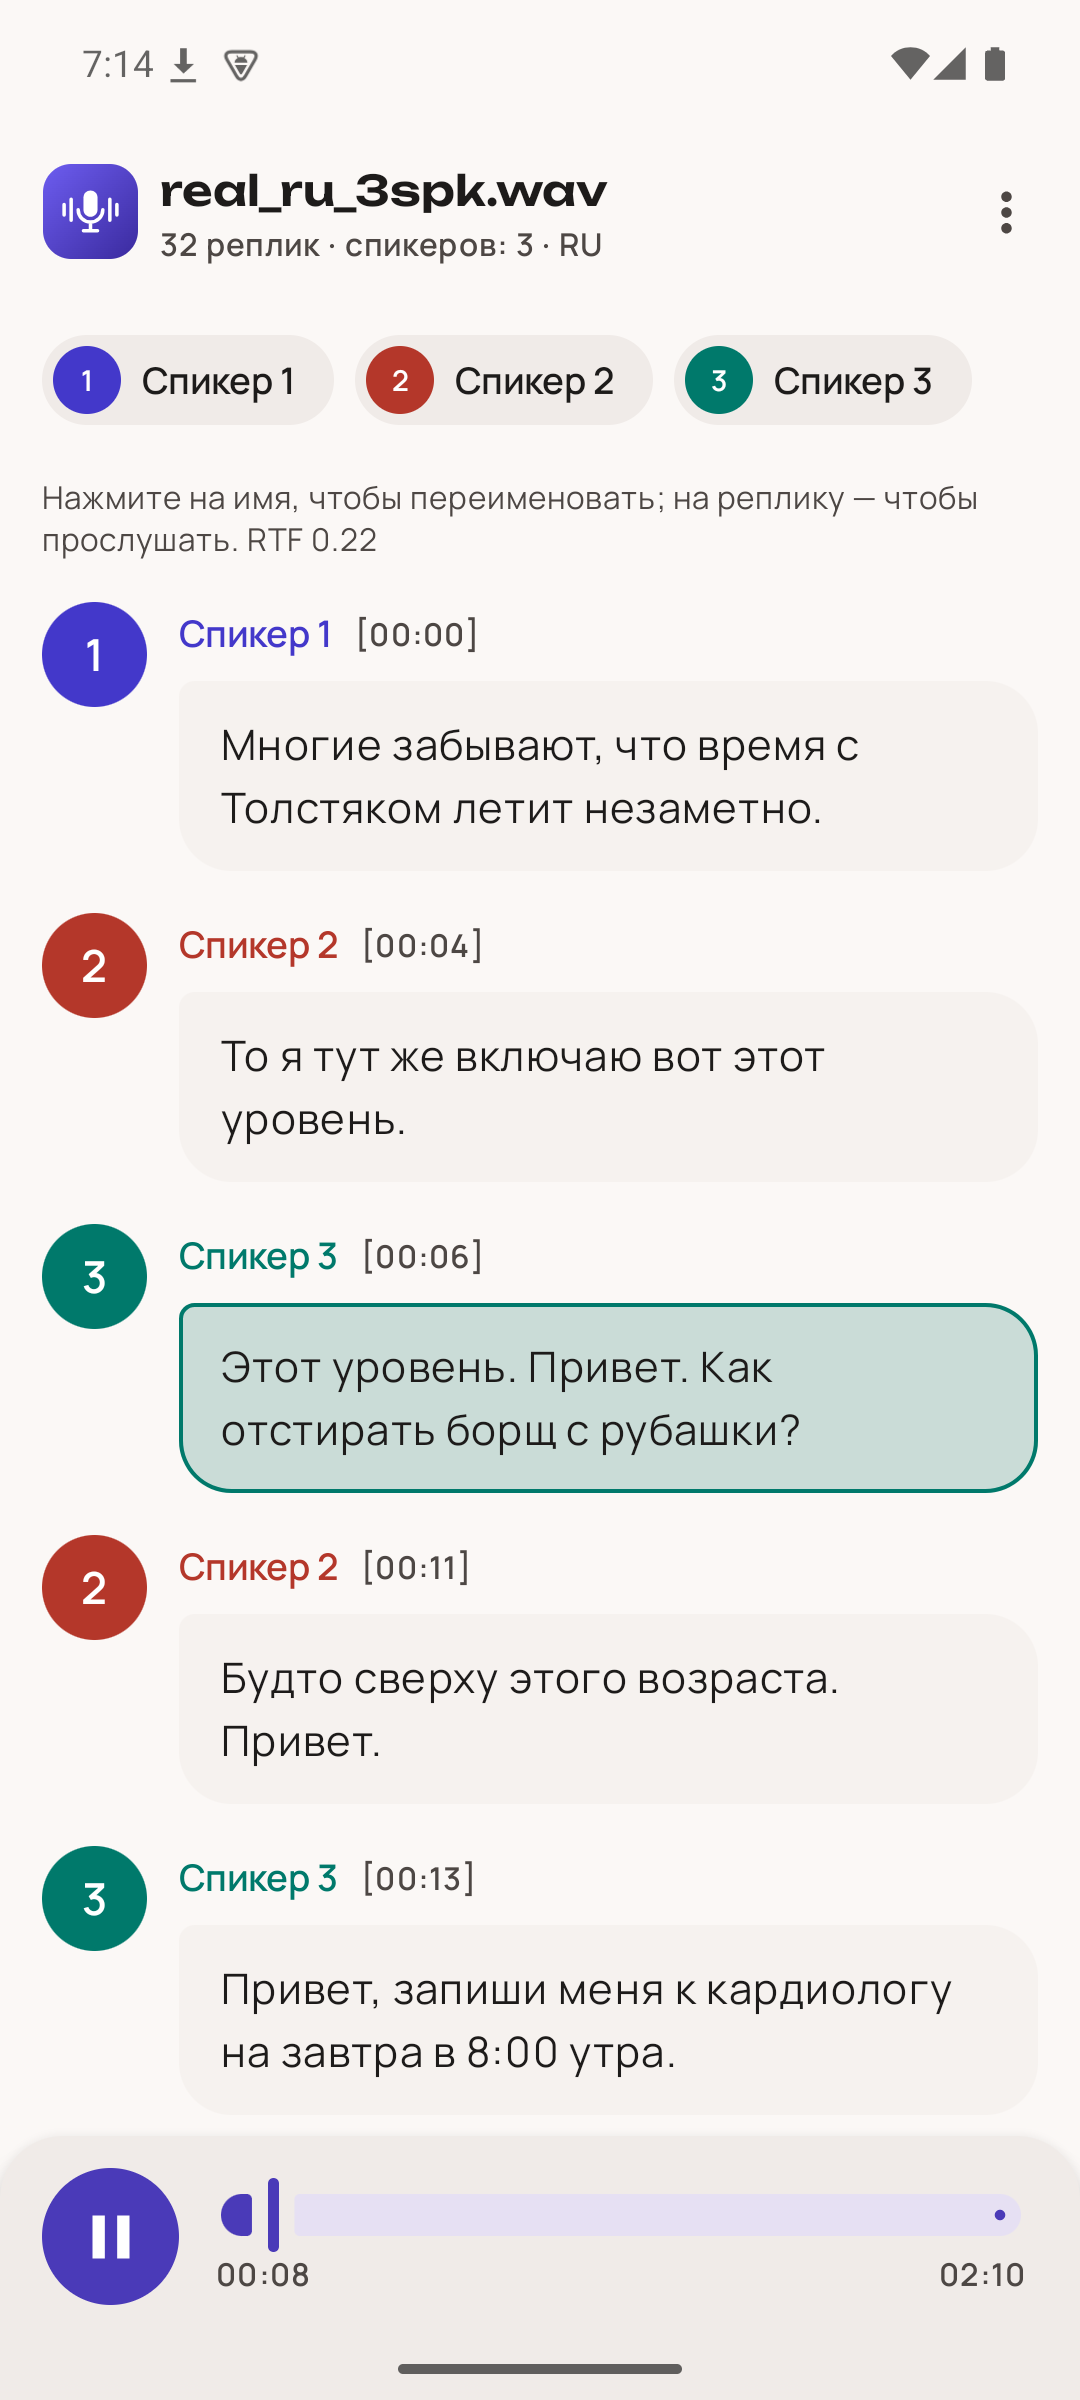
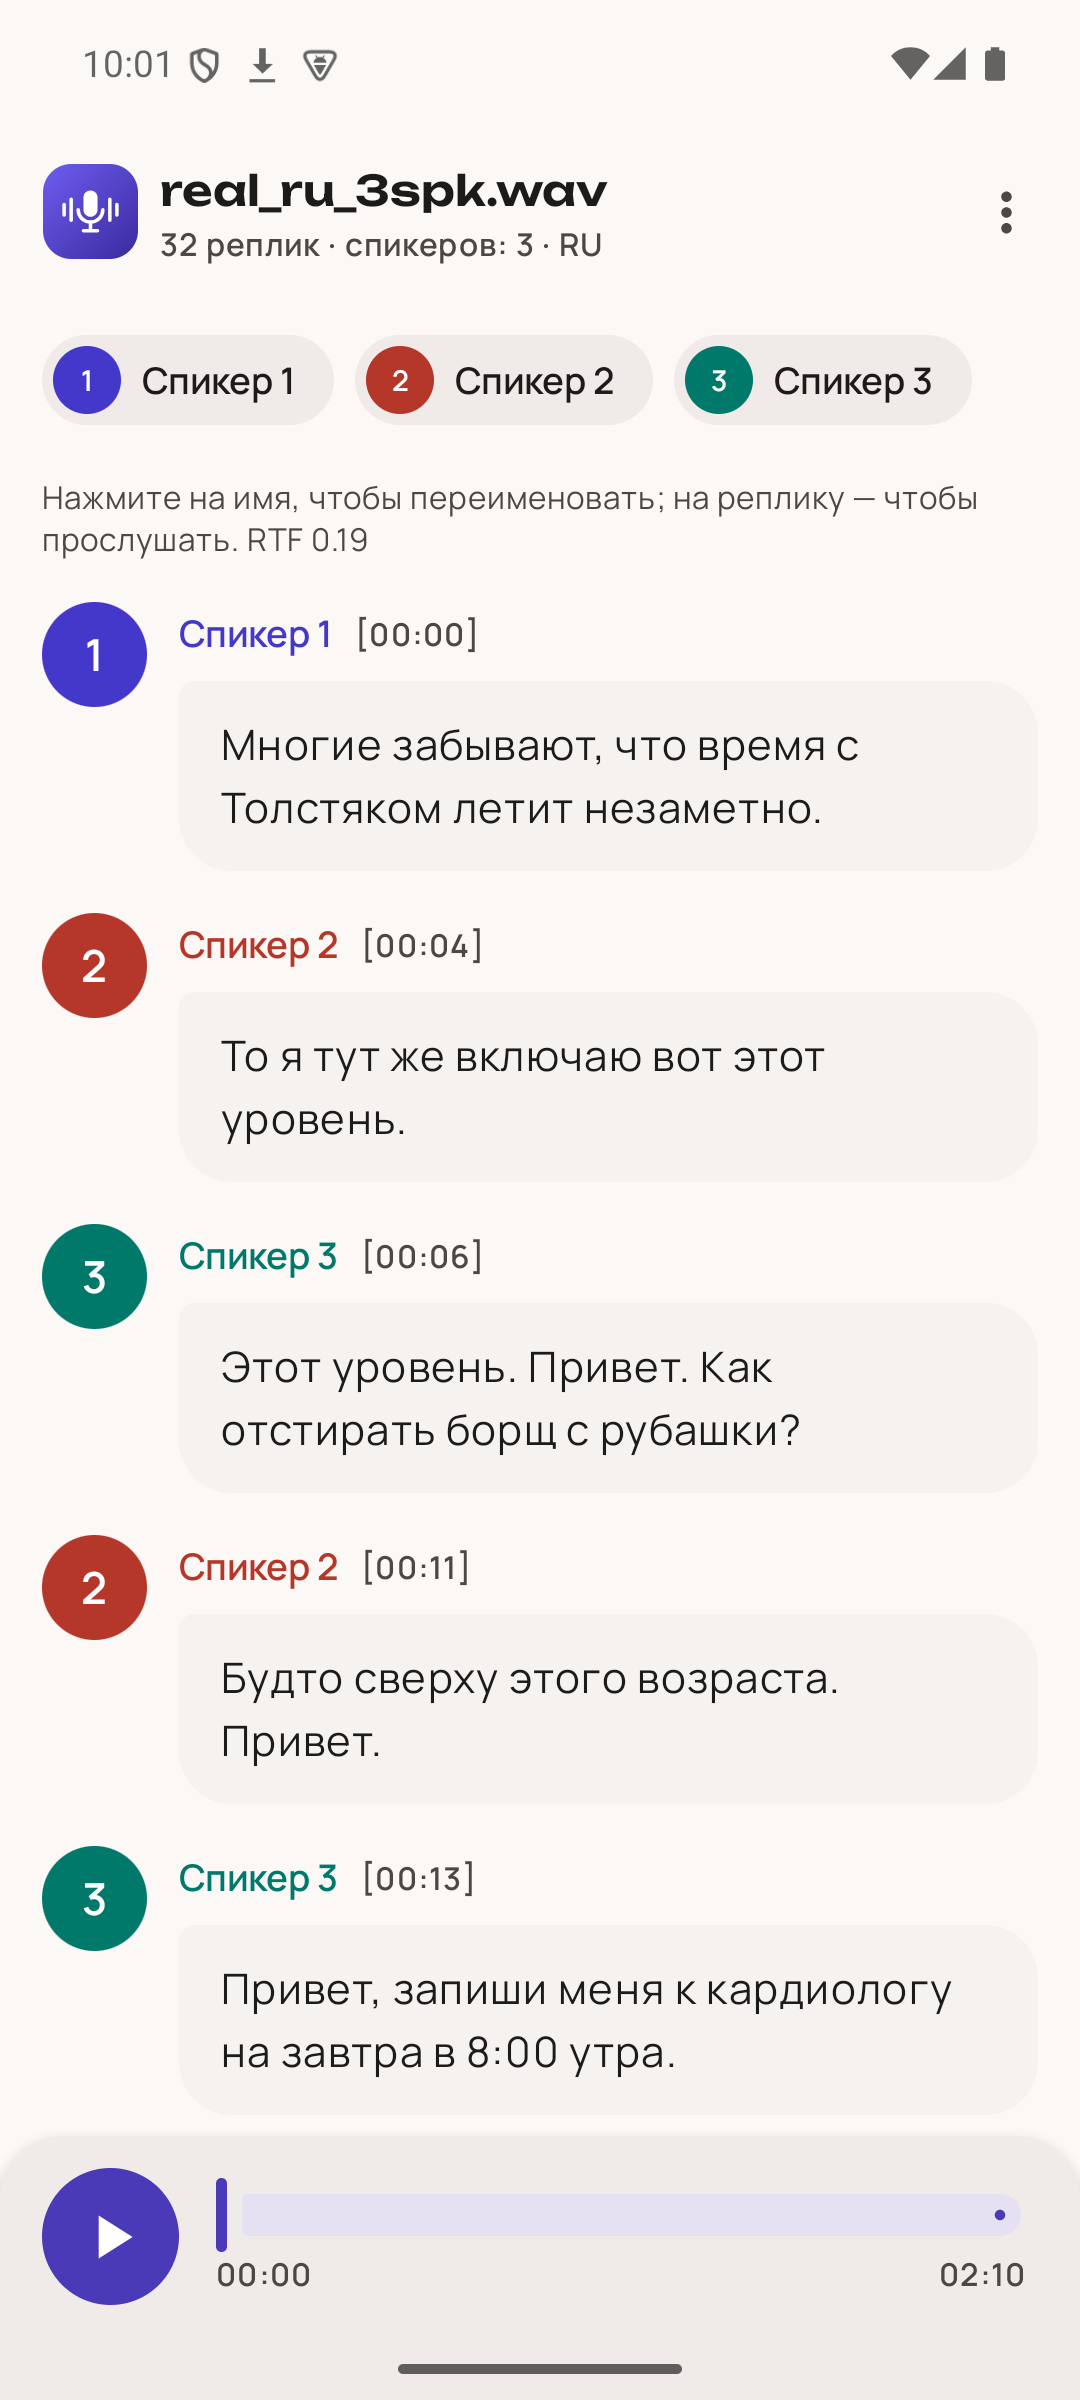
Demo: video (demo.mp4), README GIF, refreshed transcript screenshots

diff --git a/artifacts/demo/README.md b/artifacts/demo/README.md
@@ -1,9 +1,20 @@
 # Материалы демонстрации
 
-- **Видео демонстрации:** _ссылка будет добавлена перед защитой_ <!-- вставить ссылку на видео -->
-- Сценарий видео: установка APK → «Импорт аудио» (тестовый диалог) → прогресс в уведомлении, экран
-  заблокирован → расшифровка со спикерами и таймкодами → тап по реплике (плеер) → экспорт JSON →
-  «Резюме (LLM)» → режим полёта (всё работает без сети).
+- **Видео демонстрации (1:41, 720 по высоте, H.264):** [demo.mp4](demo.mp4) — [открыть на GitHub](https://github.com/zzzatoox/neuro-steno/blob/master/artifacts/demo/demo.mp4)
+- GIF для README (13 с): [docs/img/demo.gif](../../docs/img/demo.gif)
 - Скриншоты: [docs/img/](../../docs/img/)
-- Пример экспорта: `eval/out/<имя>.json` после `scripts/run_eval.sh` (формат — в корневом README).
-- Логи прогона: `adb logcat -s STENO` (время этапов, язык LID, RTF).
+
+## Сценарий видео
+Снято на эмуляторе (Android, arm64, 4 vCPU) с release-APK из Release v1.0, установленного начисто;
+вход — `real_ru_3spk.wav` (2:10, 3 спикера, русский).
+
+1. Стартовый экран: язык «Авто», число спикеров «Авто» → «Импортировать файл».
+2. Системный выбор файла → `real_ru_3spk.wav`; обработка стартует сразу.
+3. Экран обработки: этапы, прогресс, оставшееся время.
+4. Расшифровка: 32 реплики, 3 спикера, таймкоды, RTF в подсказке.
+5. Тап по реплике — воспроизведение с этого места, подсветка текущей реплики.
+6. Тап по «Спикер 1» → переименование (Maria).
+7. Меню ⋮ → «Резюме (LLM)» — локальная модель, без сети.
+8. Меню ⋮ → «Экспорт JSON» → сохранение `real_ru_3spk.json` через системный диалог.
+
+Логи прогона: `adb logcat -s STENO` (время этапов, язык LID, RTF).

diff --git a/README.md b/README.md
@@ -1,5 +1,9 @@
 # Нейро-стенографист
 
+![Демо: расшифровка и тап по реплике](docs/img/demo.gif)
+
+**Видео демонстрации (1:41):** [artifacts/demo/demo.mp4](artifacts/demo/demo.mp4)
+
 Android-приложение, которое превращает запись разговора
 в расшифровку: распознаёт речь (русский и английский, язык определяется автоматически), разделяет
 говорящих, ставит таймкоды каждой реплике и экспортирует результат в JSON. Локальная LLM
